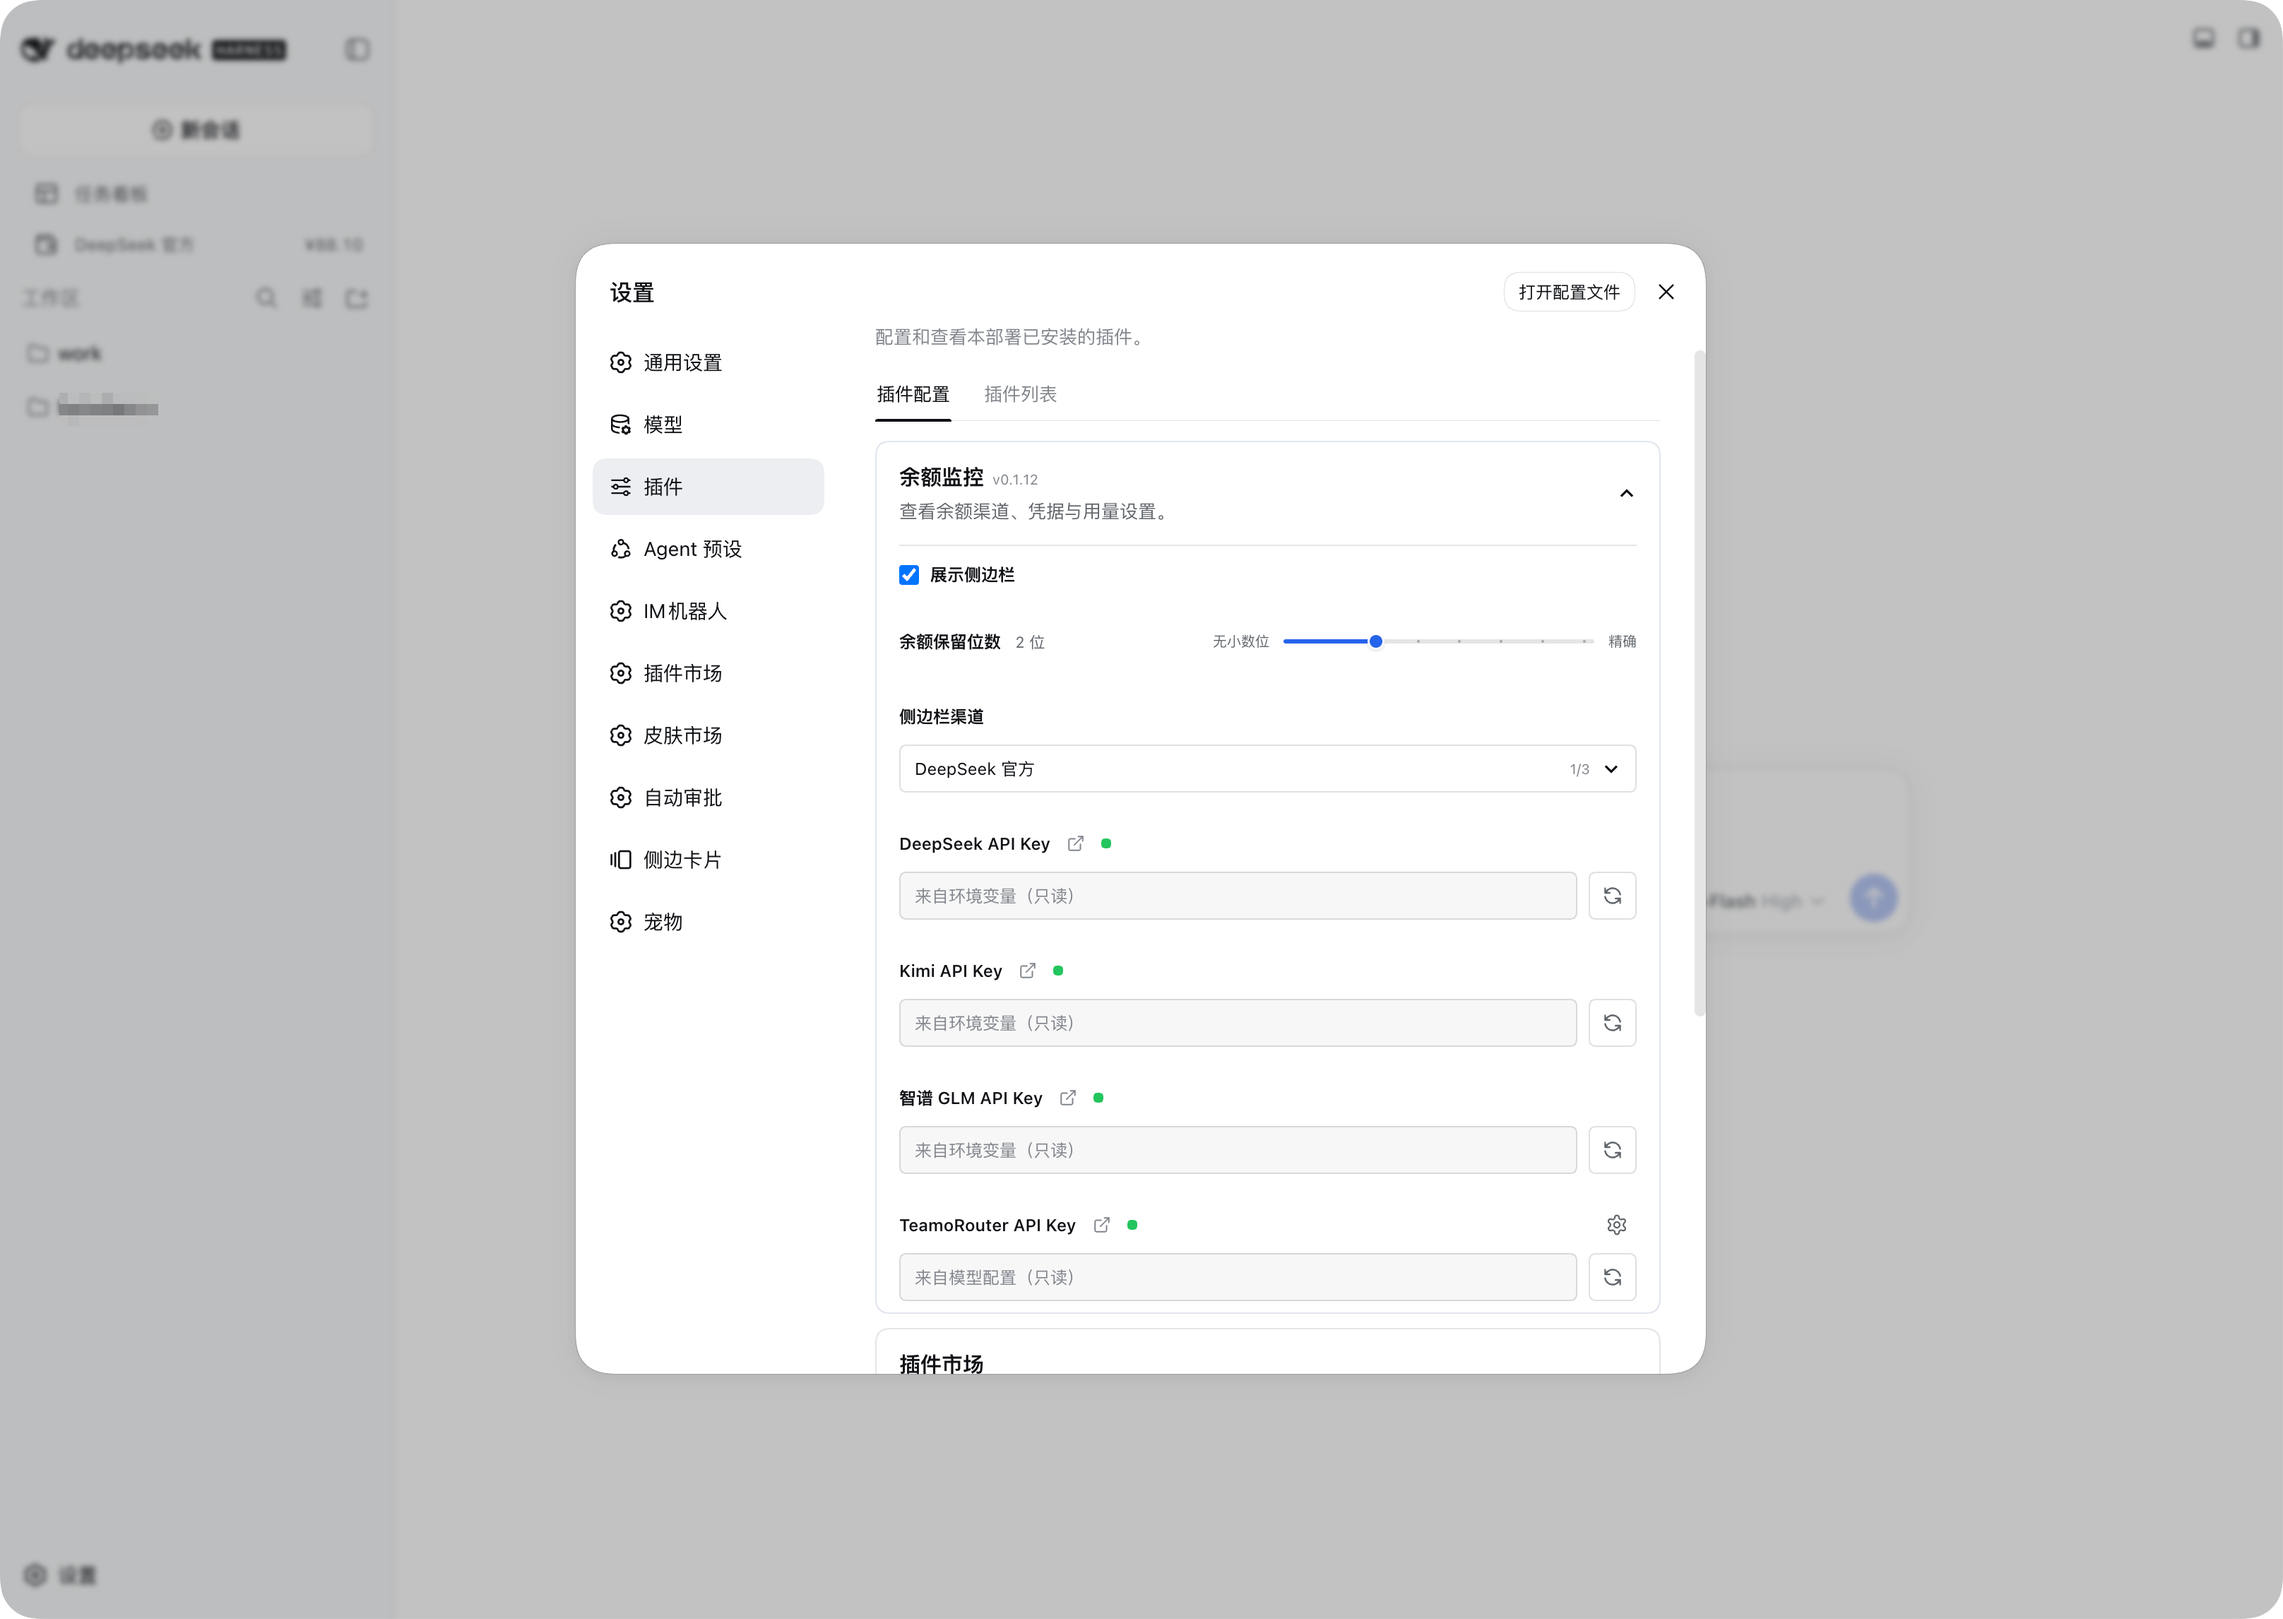
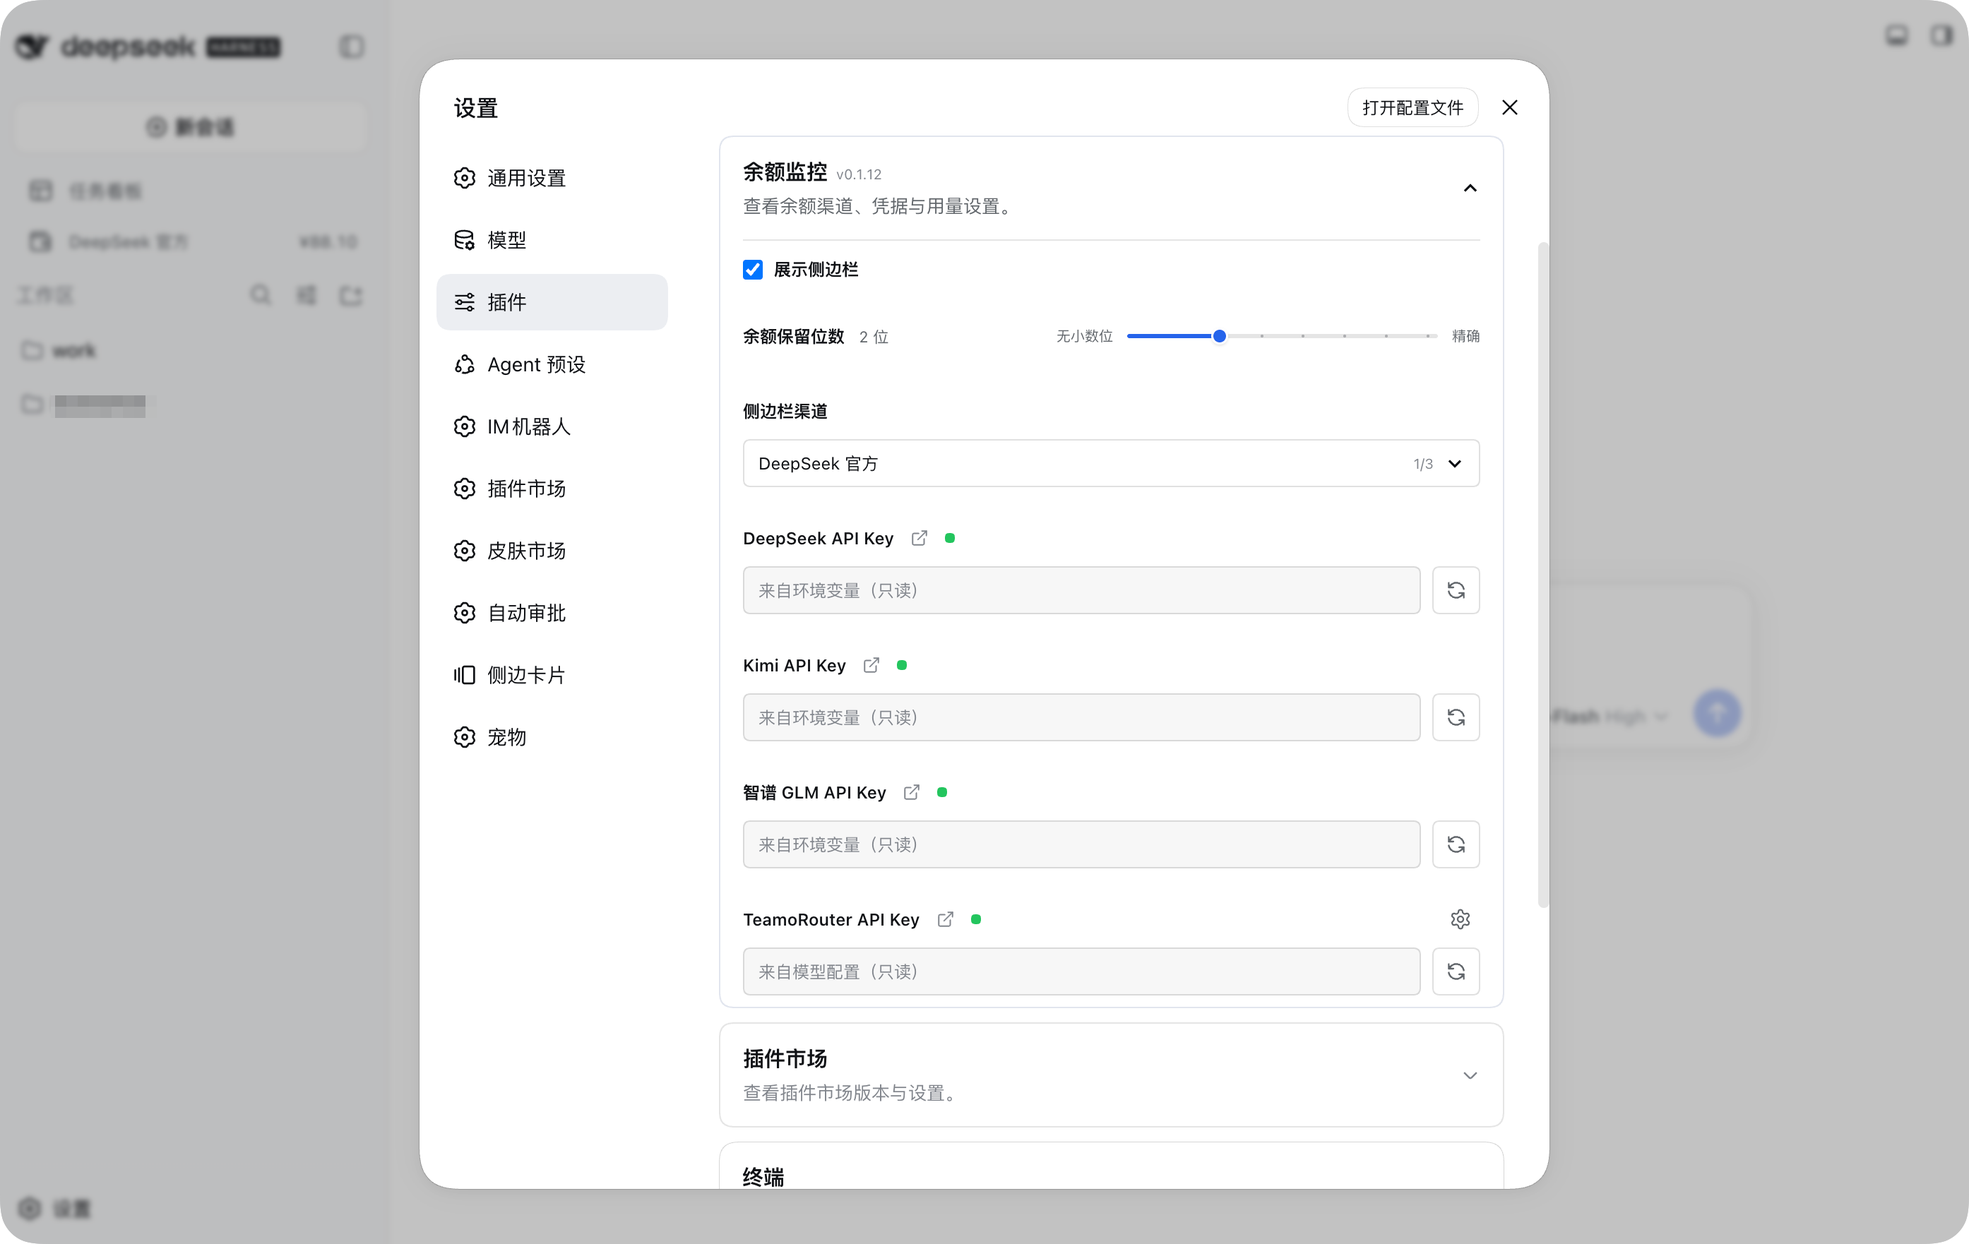
chore: improve plugin distribution metadata
Align the official DSH dependency with host-provided peer resolution and improve the interface previews used by repository visitors and storefronts.

diff --git a/test/manifest.test.js b/test/manifest.test.js
@@ -31,3 +31,10 @@ test('browser-only libraries are build dependencies', () => {
   assert.equal(manifest.dependencies?.sortablejs, undefined)
   assert.equal(typeof manifest.devDependencies?.sortablejs, 'string')
 })
+
+test('official DSH libraries are peer and development dependencies', () => {
+  const packageName = '@deepseek-ai/schemastery'
+  assert.equal(manifest.dependencies?.[packageName], undefined)
+  assert.equal(manifest.peerDependencies?.[packageName], '^3.18.2')
+  assert.equal(manifest.devDependencies?.[packageName], '^3.18.2')
+})

diff --git a/README.md b/README.md
@@ -17,10 +17,18 @@
 
 ## 界面预览
 
+侧边栏展示选定渠道的余额；点击入口可查看各渠道详情，并在设置中调整展示、精度与凭据来源。
+
 ### 侧边栏余额
 
 <p align="center">
   <img src="./docs/images/sidebar-overview.png" alt="DSH Balance Monitor 侧边栏余额展示" width="960" />
+</p>
+
+### 余额详情
+
+<p align="center">
+  <img src="./docs/images/popup-window.png" alt="DSH Balance Monitor 多渠道余额详情弹窗" width="960" />
 </p>
 
 ### 插件设置
@@ -133,7 +141,7 @@ Host 快照带有单调递增的 revision，前端会拒绝迟到的旧快照，
 
 运行时依赖及用途：
 
-- `@deepseek-ai/schemastery`：声明 DSH 插件配置 Schema。
+- `@deepseek-ai/schemastery`：由 DSH Profile 提供的 peer dependency，用于声明插件配置 Schema；开发环境同时将其列为 dev dependency。
 - `semver`：比较已安装版本与 npm Registry 返回的版本。
 - SortableJS 已打包进 `client.js`，仅作为开发依赖参与前端构建，不会作为独立运行时依赖安装。
 
